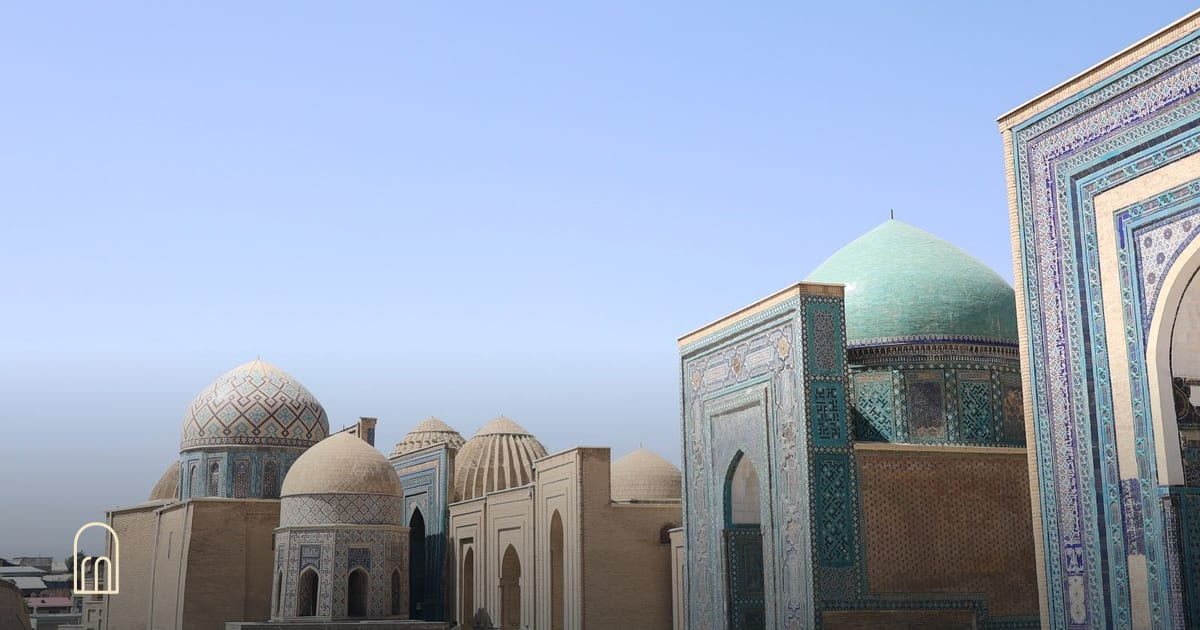
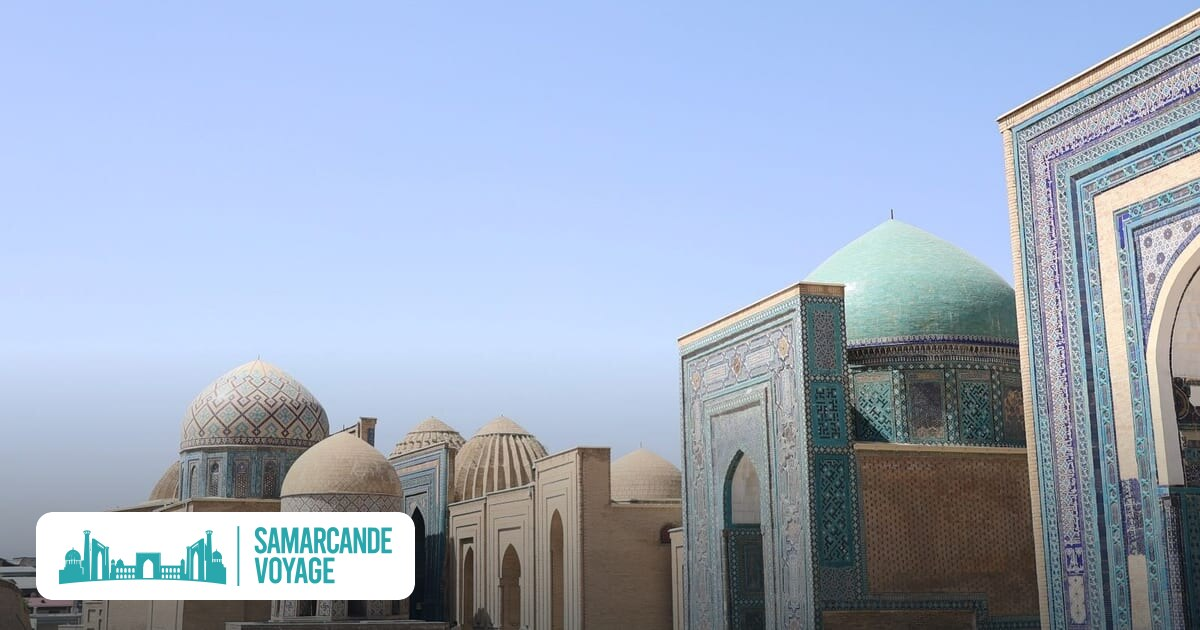
kmck

Changed region(s): [[0.0308, 0.8143, 0.37, 0.9651]]

diff --git a/src/components/Header.tsx b/src/components/Header.tsx
@@ -27,9 +27,9 @@ const NAV: { key: keyof HeaderLabels['nav']; page: PageKey }[] = [
 export function Brand({ locale }: { locale: Locale }) {
   return (
     <Link href={href(locale, 'home')} className="brand" aria-label="Samarcande Voyage">
-      {/* Logo officiel : version bleue (thème clair) et version ivoire (thème sombre). */}
-      <img className="brand__logo brand__logo--light" src={asset('/brand/logo-wordmark.svg')} alt="" width={1838} height={310} decoding="async" />
-      <img className="brand__logo brand__logo--dark" src={asset('/brand/logo-wordmark-dark.svg')} alt="" width={1838} height={310} decoding="async" />
+      {/* Logo officiel : version turquoise (thème clair) et turquoise clair (thème sombre). */}
+      <img className="brand__logo brand__logo--light" src={asset('/brand/logo.svg')} alt="" width={1972} height={365} decoding="async" />
+      <img className="brand__logo brand__logo--dark" src={asset('/brand/logo-dark.svg')} alt="" width={1972} height={365} decoding="async" />
     </Link>
   );
 }

diff --git a/src/lib/seo.ts b/src/lib/seo.ts
@@ -57,7 +57,7 @@ export function organizationLd(locale: Locale, t: Dictionary) {
     '@id': abs('/#agency'),
     name: SITE.name,
     url: abs(href(locale, 'home')),
-    logo: abs('/icon-512.png'),
+    logo: abs('/brand/logo.png'),
     image: abs('/og.jpg'),
     description: t.meta.pages.home.desc,
     email: SITE.email,
